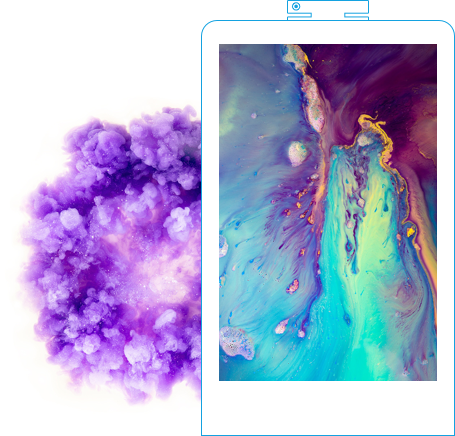
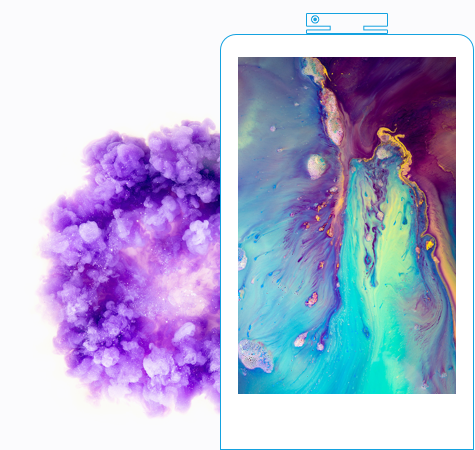
add program animate

diff --git a/html/program.html b/html/program.html
@@ -71,8 +71,48 @@
           <div class="control pointer stfont" :class="[isOpen?'open':'close']" @click="isOpen = !isOpen">功能说明</div>
           <div class="clearRight"></div>
           <div class="program-img">
-            <img :src="isOpen?'../img/index/troncell-open.png':'../img/index/troncell.png'" alt="智慧门店解决方案">
-          </div>
+              <img src="../img/index/troncell.png" alt="智慧门店解决方案">
+              <div class="pointer point" id="point-1">
+                <div class="point-circle-white"></div>
+                <div class="point-circle-color"></div>
+                <div class="stfont point-text" :class="{allshow:isOpen}">智能魔镜</div>
+              </div>
+              <div class="pointer point" id="point-2">
+                <div class="point-circle-white"></div>
+                <div class="point-circle-color"></div>
+                <div class="stfont point-text" :class="{allshow:isOpen}">商品关注统计</div>
+              </div>
+              <div class="pointer point" id="point-3">
+                <div class="point-circle-white"></div>
+                <div class="point-circle-color"></div>
+                <div class="stfont point-text" :class="{allshow:isOpen}">智能云货架</div>
+              </div>
+              <div class="pointer point" id="point-4">
+                <div class="point-circle-white"></div>
+                <div class="point-circle-color"></div>
+                <div class="stfont point-text" :class="{allshow:isOpen}">智能导购</div>
+              </div>
+              <div class="pointer point" id="point-5">
+                <div class="point-circle-white"></div>
+                <div class="point-circle-color"></div>
+                <div class="stfont point-text" :class="{allshow:isOpen}">游戏引流</div>
+              </div>
+              <div class="pointer point" id="point-6">
+                <div class="point-circle-white"></div>
+                <div class="point-circle-color"></div>
+                <div class="stfont point-text" :class="{allshow:isOpen}">客流统计</div>
+              </div>
+              <div class="pointer point" id="point-7">
+                <div class="point-circle-white"></div>
+                <div class="point-circle-color"></div>
+                <div class="stfont point-text" :class="{allshow:isOpen}">基准广告营销</div>
+              </div>
+              <div class="pointer point" id="point-8">
+                <div class="point-circle-white"></div>
+                <div class="point-circle-color"></div>
+                <div class="stfont point-text" :class="{allshow:isOpen}">客户身份识别</div>
+              </div>
+            </div>
         </div>
       </div>
       <div class="borderbox item service">

diff --git a/html/index.html b/html/index.html
@@ -105,7 +105,47 @@
           <div class="control pointer stfont" :class="[isOpen?'open':'close']" @click="isOpen = !isOpen">功能说明</div>
           <div class="clearRight"></div>
           <div class="program-img">
-            <img :src="isOpen?'../img/index/troncell-open.png':'../img/index/troncell.png'" alt="智慧门店解决方案">
+            <img src="../img/index/troncell.png" alt="智慧门店解决方案">
+            <div class="pointer point" id="point-1">
+              <div class="point-circle-white"></div>
+              <div class="point-circle-color"></div>
+              <div class="stfont point-text" :class="{allshow:isOpen}">智能魔镜</div>
+            </div>
+            <div class="pointer point" id="point-2">
+              <div class="point-circle-white"></div>
+              <div class="point-circle-color"></div>
+              <div class="stfont point-text" :class="{allshow:isOpen}">商品关注统计</div>
+            </div>
+            <div class="pointer point" id="point-3">
+              <div class="point-circle-white"></div>
+              <div class="point-circle-color"></div>
+              <div class="stfont point-text" :class="{allshow:isOpen}">智能云货架</div>
+            </div>
+            <div class="pointer point" id="point-4">
+              <div class="point-circle-white"></div>
+              <div class="point-circle-color"></div>
+              <div class="stfont point-text" :class="{allshow:isOpen}">智能导购</div>
+            </div>
+            <div class="pointer point" id="point-5">
+              <div class="point-circle-white"></div>
+              <div class="point-circle-color"></div>
+              <div class="stfont point-text" :class="{allshow:isOpen}">游戏引流</div>
+            </div>
+            <div class="pointer point" id="point-6">
+              <div class="point-circle-white"></div>
+              <div class="point-circle-color"></div>
+              <div class="stfont point-text" :class="{allshow:isOpen}">客流统计</div>
+            </div>
+            <div class="pointer point" id="point-7">
+              <div class="point-circle-white"></div>
+              <div class="point-circle-color"></div>
+              <div class="stfont point-text" :class="{allshow:isOpen}">基准广告营销</div>
+            </div>
+            <div class="pointer point" id="point-8">
+              <div class="point-circle-white"></div>
+              <div class="point-circle-color"></div>
+              <div class="stfont point-text" :class="{allshow:isOpen}">客户身份识别</div>
+            </div>
           </div>
         </div>
       </div>

diff --git a/css/program.css b/css/program.css
@@ -124,11 +124,121 @@
 .content .program-content .program-img {
   margin: 0 auto;
   margin-top: 16px;
+  position: relative;
 }
 
 .content .program-content .program-img img {
   margin: 0 auto;
   display: block;
+}
+
+.content .program-content .program-img>.point {
+  position: absolute;
+  width: 20px;
+  height: 20px;
+}
+
+.content .program-content .program-img>.point>.point-circle-white {
+  position: absolute;
+  left: 6px;
+  top: 6px;
+  width: 8px;
+  height: 8px;
+  border-radius: 4px;
+  background: #ffffff;
+  z-index: 10;
+}
+
+.content .program-content .program-img>.point>.point-circle-color {
+  position: absolute;
+  left: 0px;
+  top: 0px;
+  width: 20px;
+  height: 20px;
+  border-radius: 10px;
+  background: #13a2e0;
+  z-index: 1;
+  animation: myglare 2s linear infinite;
+}
+
+@keyframes myglare {
+  0% {
+    -webkit-transform: scale(0.4);
+    -ms-transform: scale(.4);
+    transform: scale(0.4);
+    opacity: 1;
+  }
+  100% {
+    -webkit-transform: scale(1);
+    -ms-transform: scale(1);
+    transform: scale(1);
+    opacity: 0.0;
+  }
+}
+
+.content .program-content .program-img>.point>.point-text {
+  position: absolute;
+  left: 10px;
+  top: 10px;
+  padding: 0 15px;
+  white-space: nowrap;
+  height: 34px;
+  line-height: 34px;
+  color: #666666;
+  font-size: 16.0px;
+  border: 1px solid #d7d7d7;
+  background: #ffffff;
+  box-shadow: 0px 2px 4px rgba(105, 105, 105, 0.5);
+  transition: opacity .8s;
+  opacity: 0;
+}
+
+.content .program-content .program-img>.point>.point-text.allshow {
+  opacity: 1;
+}
+
+.content .program-content .program-img>.point:hover>.point-text {
+  opacity: 1;
+}
+
+#point-1 {
+  left: 478.51px;
+  top: 50.65px;
+}
+
+#point-2 {
+  left: 662.51px;
+  top: 113.65px;
+}
+
+#point-3 {
+  left: 488.51px;
+  top: 284.65px;
+}
+
+#point-4 {
+  left: 795.51px;
+  top: 280.65px;
+}
+
+#point-5 {
+  left: 209.51px;
+  top: 304.65px;
+}
+
+#point-6 {
+  left: 332.51px;
+  top: 355.65px;
+}
+
+#point-7 {
+  left: 389.51px;
+  top: 407.65px;
+}
+
+#point-8 {
+  left: 532.51px;
+  top: 367.65px;
 }
 
 .content .service-content {
@@ -194,6 +304,7 @@
   height: 33px;
   line-height: 33px;
 }
+
 .content .item-more .more-btn {
   margin: 0 auto;
   width: 160px;

diff --git a/css/index.css b/css/index.css
@@ -174,15 +174,127 @@
 .content .program-content .program-img {
   margin: 0 auto;
   margin-top: 16px;
+  position: relative;
 }
 
 .content .program-content .program-img img {
   margin: 0 auto;
   display: block;
 }
+
+.content .program-content .program-img>.point {
+  position: absolute;
+  width: 20px;
+  height: 20px;
+}
+
+.content .program-content .program-img>.point>.point-circle-white {
+  position: absolute;
+  left: 6px;
+  top: 6px;
+  width: 8px;
+  height: 8px;
+  border-radius: 4px;
+  background: #ffffff;
+  z-index: 10;
+}
+
+.content .program-content .program-img>.point>.point-circle-color {
+  position: absolute;
+  left: 0px;
+  top: 0px;
+  width: 20px;
+  height: 20px;
+  border-radius: 10px;
+  background: #13a2e0;
+  z-index: 1;
+  animation: myglare 2s linear infinite;
+}
+
+@keyframes myglare {
+  0% {
+    -webkit-transform: scale(0.4);
+    -ms-transform: scale(.4);
+    transform: scale(0.4);
+    opacity: 1;
+  }
+  100% {
+    -webkit-transform: scale(1);
+    -ms-transform: scale(1);
+    transform: scale(1);
+    opacity: 0.0;
+  }
+}
+
+.content .program-content .program-img>.point>.point-text {
+  position: absolute;
+  left: 10px;
+  top: 10px;
+  padding: 0 15px;
+  white-space: nowrap;
+  height: 34px;
+  line-height: 34px;
+  color: #666666;
+  font-size: 16.0px;
+  border: 1px solid #d7d7d7;
+  background: #ffffff;
+  box-shadow: 0px 2px 4px rgba(105, 105, 105, 0.5);
+  transition: opacity .8s;
+  opacity: 0;
+}
+
+.content .program-content .program-img>.point>.point-text.allshow {
+  opacity: 1;
+}
+
+.content .program-content .program-img>.point:hover>.point-text {
+  opacity: 1;
+}
+
+#point-1 {
+  left: 478.51px;
+  top: 50.65px;
+}
+
+#point-2 {
+  left: 662.51px;
+  top: 113.65px;
+}
+
+#point-3 {
+  left: 488.51px;
+  top: 284.65px;
+}
+
+#point-4 {
+  left: 795.51px;
+  top: 280.65px;
+}
+
+#point-5 {
+  left: 209.51px;
+  top: 304.65px;
+}
+
+#point-6 {
+  left: 332.51px;
+  top: 355.65px;
+}
+
+#point-7 {
+  left: 389.51px;
+  top: 407.65px;
+}
+
+#point-8 {
+  left: 532.51px;
+  top: 367.65px;
+}
+
 .content .item.news {
   padding-bottom: 0px;
 }
+
 .content .news-content {
   margin-top: 34px;
   display: flex;

diff --git a/css/drainage.css b/css/drainage.css
@@ -281,8 +281,8 @@
 }
 
 .content .adaptation2>img {
-  margin-left: 150px;
-  margin-top: 78px;
+  margin-left: 90px;
+  margin-top: 64px;
   float: left;
 }
 
